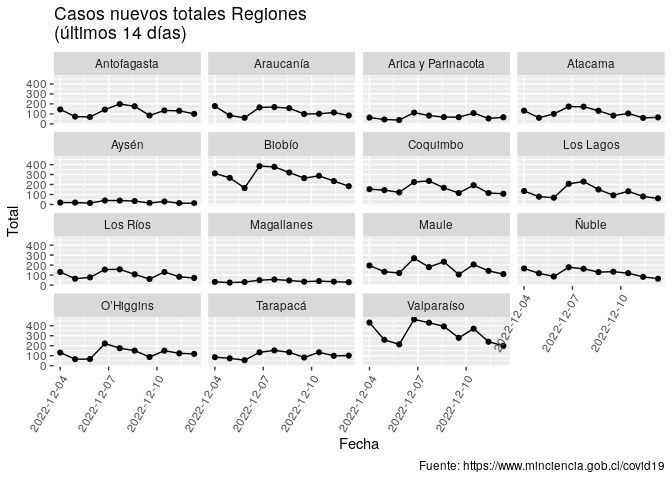
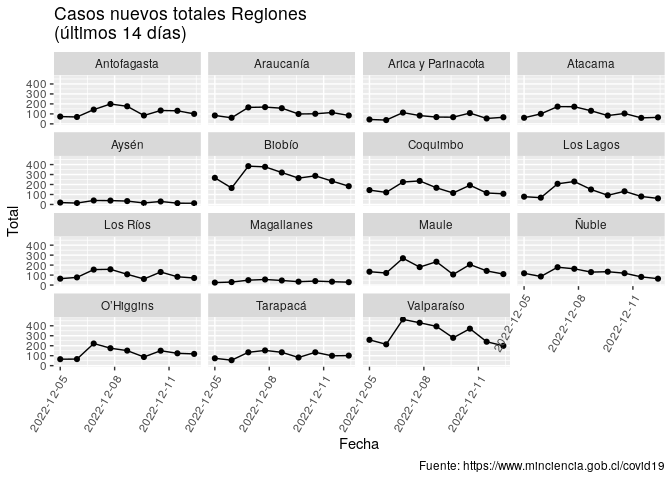
Re-build Rmarkdown files

diff --git a/README.md b/README.md
@@ -3,7 +3,7 @@
 
 Ejemplo de uso de total\_casos de COVID recopilados por el Ministerio de
 Ciencia de Chile <https://www.minciencia.gob.cl/covid19>. Última
-actualización: 2022-12-17
+actualización: 2022-12-18
 
 ## Visualización desde el comienzo de la pandemia
 
